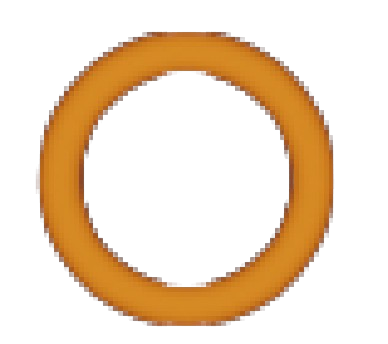
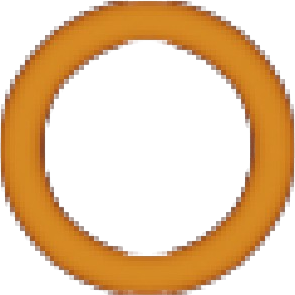
added back obstacles

diff --git a/lib/components/field_elements/obstacles/obstacles_constants.dart b/lib/components/field_elements/obstacles/obstacles_constants.dart
@@ -10,10 +10,10 @@ List<ObstacleConfig> obstaclesShapesList = List.from(
         ..set(
           List.from(
             [
-              Vector2(140, -42) * 1,
-              Vector2(125, -33) * 1,
-              Vector2(125, -16) * 1,
-              Vector2(140, -7) * 1,
+              Vector2(140, -42) / 8,
+              Vector2(125, -33) / 8,
+              Vector2(125, -16) / 8,
+              Vector2(140, -7) / 8,
             ],
           ),
         ),
@@ -28,10 +28,10 @@ List<ObstacleConfig> obstaclesShapesList = List.from(
         ..set(
           List.from(
             [
-              Vector2(-140, -42) * 1,
-              Vector2(-125, -33) * 1,
-              Vector2(-125, -16) * 1,
-              Vector2(-140, -7) * 1,
+              Vector2(-140, -42) / 8,
+              Vector2(-125, -33) / 8,
+              Vector2(-125, -16) / 8,
+              Vector2(-140, -7) / 8,
             ],
           ),
         ),
@@ -46,10 +46,10 @@ List<ObstacleConfig> obstaclesShapesList = List.from(
         ..set(
           List.from(
             [
-              Vector2(43, -15) * 1,
-              Vector2(52, -20) * 1,
-              Vector2(47, -29) * 1,
-              Vector2(38, -24) * 1,
+              Vector2(43, -15) / 8,
+              Vector2(52, -20) / 8,
+              Vector2(47, -29) / 8,
+              Vector2(38, -24) / 8,
             ],
           ),
         ),
@@ -64,10 +64,10 @@ List<ObstacleConfig> obstaclesShapesList = List.from(
         ..set(
           List.from(
             [
-              Vector2(88, 5) * 1,
-              Vector2(88, -5) * 1,
-              Vector2(78, -5) * 1,
-              Vector2(78, 5) * 1,
+              Vector2(88, 5) / 8,
+              Vector2(88, -5) / 8,
+              Vector2(78, -5) / 8,
+              Vector2(78, 5) / 8,
             ],
           ),
         ),
@@ -82,10 +82,10 @@ List<ObstacleConfig> obstaclesShapesList = List.from(
         ..set(
           List.from(
             [
-              Vector2(38, 24) * 1,
-              Vector2(47, 29) * 1,
-              Vector2(52, 20) * 1,
-              Vector2(43, 15) * 1,
+              Vector2(38, 24) / 8,
+              Vector2(47, 29) / 8,
+              Vector2(52, 20) / 8,
+              Vector2(43, 15) / 8,
             ],
           ),
         ),
@@ -100,10 +100,10 @@ List<ObstacleConfig> obstaclesShapesList = List.from(
         ..set(
           List.from(
             [
-              Vector2(-43, -15) * 1,
-              Vector2(-52, -20) * 1,
-              Vector2(-47, -29) * 1,
-              Vector2(-38, -24) * 1,
+              Vector2(-43, -15) / 8,
+              Vector2(-52, -20) / 8,
+              Vector2(-47, -29) / 8,
+              Vector2(-38, -24) / 8,
             ],
           ),
         ),
@@ -118,10 +118,10 @@ List<ObstacleConfig> obstaclesShapesList = List.from(
         ..set(
           List.from(
             [
-              Vector2(-88, 5) * 1,
-              Vector2(-88, -5) * 1,
-              Vector2(-78, -5) * 1,
-              Vector2(-78, 5) * 1,
+              Vector2(-88, 5) / 8,
+              Vector2(-88, -5) / 8,
+              Vector2(-78, -5) / 8,
+              Vector2(-78, 5) / 8,
             ],
           ),
         ),
@@ -136,10 +136,10 @@ List<ObstacleConfig> obstaclesShapesList = List.from(
         ..set(
           List.from(
             [
-              Vector2(-38, 24) * 1,
-              Vector2(-47, 29) * 1,
-              Vector2(-52, 20) * 1,
-              Vector2(-43, 15) * 1,
+              Vector2(-38, 24) / 8,
+              Vector2(-47, 29) / 8,
+              Vector2(-52, 20) / 8,
+              Vector2(-43, 15) / 8,
             ],
           ),
         ),
@@ -154,9 +154,9 @@ List<ObstacleConfig> obstaclesShapesList = List.from(
         ..set(
           List.from(
             [
-              Vector2(140, 51) * 1,
-              Vector2(109, 70) * 1,
-              Vector2(141, 70) * 1,
+              Vector2(140, 51) / 8,
+              Vector2(109, 70) / 8,
+              Vector2(141, 70) / 8,
             ],
           ),
         ),
@@ -171,9 +171,9 @@ List<ObstacleConfig> obstaclesShapesList = List.from(
         ..set(
           List.from(
             [
-              Vector2(-140, 51) * 1,
-              Vector2(-109, 70) * 1,
-              Vector2(-140, 70) * 1,
+              Vector2(-140, 51) / 8,
+              Vector2(-109, 70) / 8,
+              Vector2(-140, 70) / 8,
             ],
           ),
         ),
@@ -191,10 +191,10 @@ List<ObstacleConfig> obstaclesShapesList = List.from(
         ..set(
           List.from(
             [
-              Vector2(132, -35) * 1,
-              Vector2(150, -35) * 1,
-              Vector2(150, -14) * 1,
-              Vector2(132, -14) * 1,
+              Vector2(132, -35) / 8,
+              Vector2(150, -35) / 8,
+              Vector2(150, -14) / 8,
+              Vector2(132, -14) / 8,
             ],
           ),
         ),
@@ -209,10 +209,10 @@ List<ObstacleConfig> obstaclesShapesList = List.from(
         ..set(
           List.from(
             [
-              Vector2(-132, -35) * 1,
-              Vector2(-150, -35) * 1,
-              Vector2(-150, -14) * 1,
-              Vector2(-132, -14) * 1,
+              Vector2(-132, -35) / 8,
+              Vector2(-150, -35) / 8,
+              Vector2(-150, -14) / 8,
+              Vector2(-132, -14) / 8,
             ],
           ),
         ),

diff --git a/lib/components/border/border_constants.dart b/lib/components/border/border_constants.dart
@@ -6,15 +6,15 @@ import 'package:player_move/constants.dart';
 /// 1st element is first parameter for EdgeShape()..set();
 /// 2nd element is second parameter for EdgeShape()..set();
 final kRightBorder = List.from(<Vector2>[
-  Vector2(
-      -3072 / 2 / RoboticsGame.zoomLevel, -1420 / 2 / RoboticsGame.zoomLevel),
+  Vector2((-3072) / 2 / RoboticsGame.zoomLevel + 1.6,
+      -1420 / 2 / RoboticsGame.zoomLevel),
   Vector2.zero(),
   Vector2(0, 1420 / RoboticsGame.zoomLevel),
 ]);
 
 final kLeftBorder = List.from(<Vector2>[
-  Vector2(
-      3072 / 2 / RoboticsGame.zoomLevel, -1420 / 2 / RoboticsGame.zoomLevel),
+  Vector2((3072) / 2 / RoboticsGame.zoomLevel - 1.6,
+      -1420 / 2 / RoboticsGame.zoomLevel),
   Vector2.zero(),
   Vector2(0, 1420 / RoboticsGame.zoomLevel),
 ]);

diff --git a/lib/components/robot/gear_ratios/L4/l_4_gear_ratio.dart b/lib/components/robot/gear_ratios/L4/l_4_gear_ratio.dart
@@ -10,8 +10,8 @@ part 'l_4_gear_ratio.g.dart';
 @JsonSerializable(explicitToJson: true, anyMap: true)
 class L4GearRatio extends GearRatio {
   static const String kName = "L4";
-  static const double kAcceleration = 16;
-  static const double kMaximumSpeed = 10;
+  static const double kAcceleration = 15;
+  static const double kMaximumSpeed = 9;
   static const double kExperience = 15;
   L4GearRatio()
       : super(

diff --git a/lib/components/game_piece/game_piece.dart b/lib/components/game_piece/game_piece.dart
@@ -105,12 +105,11 @@ class GamePiece extends BodyComponent {
       linearDamping: GamePieceDampening,
       bullet: true,
       userData: this,
-      allowSleep: false,
     );
     setCollisionFilter();
     shape = CircleShape()..radius = 0.4;
     fixtureDef = FixtureDef(shape)
-      ..density = 10
+      ..density = 5
       ..friction = 0.7
       ..restitution = .0
       ..filter = collisionFilter;

diff --git a/lib/components/robot/wheels/griplock/griplock_wheel.dart b/lib/components/robot/wheels/griplock/griplock_wheel.dart
@@ -10,7 +10,7 @@ part 'griplock_wheel.g.dart';
 @JsonSerializable(explicitToJson: true)
 class GriplockWheel extends Wheel {
   static const String kName = "Griplock";
-  static const double kAcceleration = 5;
+  static const double kAcceleration = 4;
   static const double kCost = 4;
   GriplockWheel()
       : super(acceleration: kAcceleration, cost: kCost, name: kName);

diff --git a/lib/components/robot/wheels/billet/billet_wheel.dart b/lib/components/robot/wheels/billet/billet_wheel.dart
@@ -10,7 +10,7 @@ part 'billet_wheel.g.dart';
 @JsonSerializable(explicitToJson: true)
 class BilletWheel extends Wheel {
   static const String kName = "Billet";
-  static const double kAcceleration = 4;
+  static const double kAcceleration = 3;
   static const double kCost = 4;
   BilletWheel() : super(acceleration: kAcceleration, cost: kCost, name: kName);
 

diff --git a/lib/pages/home_page.dart b/lib/pages/home_page.dart
@@ -25,6 +25,7 @@ class HomePageState extends ConsumerState<HomePage> {
   Widget build(BuildContext context) {
     final settings = ref.watch(settingsNotifierProvider.notifier);
     return Scaffold(
+      backgroundColor: Theme.of(context).scaffoldBackgroundColor,
       appBar: AppBar(
         leading: TextButton.icon(
           onPressed: goToSettings,

diff --git a/lib/components/robot/gear_ratios/L3/l_3_gear_ratio.dart b/lib/components/robot/gear_ratios/L3/l_3_gear_ratio.dart
@@ -11,7 +11,7 @@ part 'l_3_gear_ratio.g.dart';
 class L3GearRatio extends GearRatio {
   static const String kName = "L3";
   static const double kAcceleration = 14;
-  static const double kMaximumSpeed = 8;
+  static const double kMaximumSpeed = 7;
   static const double kExperience = 10;
   L3GearRatio()
       : super(

diff --git a/lib/components/robot/gear_ratios/L2/l_2_gear_ratio.dart b/lib/components/robot/gear_ratios/L2/l_2_gear_ratio.dart
@@ -11,7 +11,7 @@ part 'l_2_gear_ratio.g.dart';
 class L2GearRatio extends GearRatio {
   static const String kName = "L2";
   static const double kAcceleration = 12;
-  static const double kMaximumSpeed = 6;
+  static const double kMaximumSpeed = 5;
   static const double kExperience = 8;
   L2GearRatio()
       : super(

diff --git a/lib/providers/robot/robot_provider.dart b/lib/providers/robot/robot_provider.dart
@@ -23,7 +23,7 @@ class RobotProvider extends _$RobotProvider {
       // kAngularDeccelerationRate: 12,
       // kAngularIdleDeccelerationRate: 5,
       kDensity: 2,
-      kFriction: 0.5,
+      kFriction: 1,
       kRestitution: 0,
       // kHalfWidth: (1556 / 3840) * 1.6,
       // kHalfHeight: (1556 / 3840) * 1.6,
